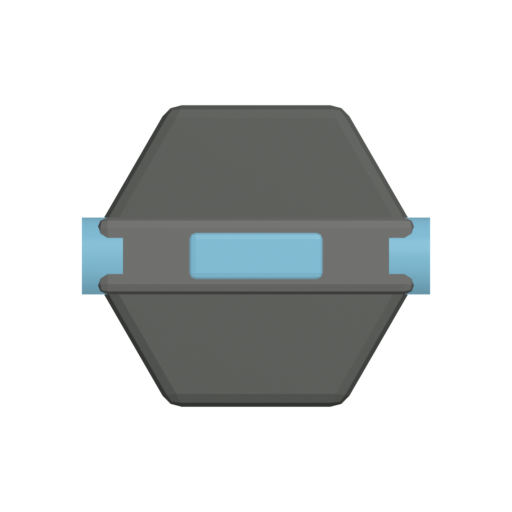
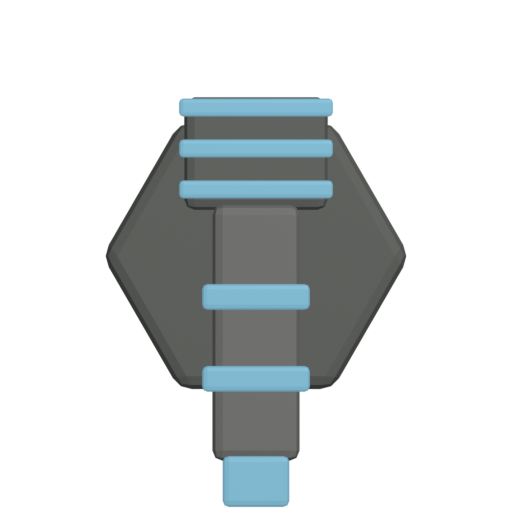
gorsel: pusu ve isin kulelerine gercek namlu
Ikisi de donen kule ama namlulari yoktu: pusu ortada bir mazgaldi,
isin X ekseninde yatay bir raydi. Donen kulenin neye nisan aldigi
ancak namludan okunur; ustelik isin hatti rayin ortasindan cikip
kendi govdesini yariyordu.

- pusu: dar alcak pad + kama + -Y'ye tasan namlu + agiz freni (uc -0,48)
- isin: sarj bobini + -Y'de uzun ray + iki mercek seridi + agiz (-0,49)
- TowerFx namlu ucu: pusu 0,28 -> 0,48, isin 0,30 -> 0,50

Gizlilik kurali (spec 9.1) bozulmadi, tasindi: pusunun gorunmezligi
artik siluetin ALCAKLIGINDAN geliyor, namlunun yoklugundan degil.

Elenen iki deneme yorumlara yazildi: ince silindir namlu 30 pikselde
kayboluyordu; isinin silindir sarj halkalari kulenin yarisini kaplayan
mavi bir leke oluyordu.

172 EditMode testi yesil.

Changed region(s): [[0.1562, 0.1875, 0.8438, 1.0]]

diff --git a/tools/blender/towers.py b/tools/blender/towers.py
@@ -9,15 +9,19 @@ Ordunun GOREBILDIGI kule ile GOREMEDIGI kule bakista ayrilmali.
   batarya      -> tehdit YAZAR. Tek "gurultulu" kule: yuksek, dik namlu,
                   agresif siluet. Titresim halkasi da yalnizca onda
                   (halkayi kod ciziyor, ThreatRingView).
-  pusu mevzisi -> tehdit YAZMAZ. Alcak, yassi, gomulu. Asil katil odur
-                  ama gorunmemeli - oyunun tersine cevrilmis sezgisi bu
-                  (spec 3.2).
+  pusu mevzisi -> tehdit YAZMAZ. Alcak ve yassi govde, ama ONE BAKAN
+                  ince bir namlu var (23 Agu kullanici karari): donen
+                  kulenin neye nisan aldigi ancak namludan okunur.
+                  Gizlilik YUKSEKLIKTE korunur - govde hala yerde.
   mayin tarlasi-> tehdit YAZMAZ. Yerde dagilmis kucuk tumsekler; dikey
                   yapi YOK.
   yem          -> hasar vermez, suruyu ceker. Yayin yapan bir fener:
                   ince govde + tepede parlak baslik.
-  isin         -> periyodik YATAY hat. Govde X ekseninde uzun; iki ucta
-                  mercek. Yonu mekanigini anlatir.
+  isin         -> periyodik delici hat. Yayici NISAN YONUNDE (-Y): uc
+                  uca iki mercek + one bakan agiz (23 Agu). Once X
+                  ekseninde yatay raydi; kule donunce nereye ates ettigi
+                  okunmuyordu ve hat rayin ortasindan cikip onu
+                  yariyordu.
 
 Yukseklik bu yuzden bir SUS degil, bilgi: yuksek kule gorunur, yassi
 kule gizli.
@@ -178,18 +182,41 @@ def build_battery():
 
 
 def build_ambush():
-    """SESSIZ. Alcak, yassi, gomulu. Asil katil ama gorunmemeli."""
+    """SESSIZ ama artik GERCEK NAMLULU. Alcak govde + one bakan top.
+
+    22 Agustos'ta mazgaldi: govdenin ortasinda dar bir yarik. Kullanici
+    begenmedi ve hakliydi - donen bir kulenin neye nisan aldigi ancak
+    NAMLUDAN okunur, mazgal her acidan ayni goruniyordu.
+
+    Gizlilik siluetin YUKSEKLIGINDE korunur, namlunun yoklugunda degil:
+    govde hala cok alcak ve dar, namlu ise yere yakin. Bataryanin yuksek
+    taretiyle yan yana konunca fark bakista okunur - kural (spec 9.1)
+    bozulmadi, tasindi.
+
+    Namlu, silueti tasiyacak kadar KALIN olmali: ilk denemede 0,042
+    yaricapli bir cubuktu ve 30 pikselde kayboluyordu. Govde de
+    kucultuldu, yoksa namlu plakanin icinde kalip disari cikmiyordu.
+    Ucu y = -0,48.
+    """
     clear()
     body = mat("T_Body", BODY)
+    metal = mat("T_Metal", METAL)
     acc = mat("T_Acc_amb", (0.45, 0.52, 0.58, 1.0), rough=0.7)
 
-    # genis ve COK alcak plaka: yukseklik yok = gorunurluk yok
-    ngon("Pad", 8, 0.44, 0.0, 0.05, body, 0.02)
-    # ortada dar bir yarik: namlu degil, mazgal
-    box("Slit", (0, 0, 0.06), (0.30, 0.07, 0.04), acc, 0.01)
-    # kamuflaj kenarlari
+    # dar ve COK alcak plaka: yukseklik yok = gorunurluk yok
+    ngon("Pad", 8, 0.32, 0.0, 0.05, body, 0.02)
+    # kama (breech): namlunun arkasi, siluete agirlik ve yon verir
+    box("Breech", (0.0, 0.05, 0.09), (0.26, 0.24, 0.08), body, 0.015)
+    box("Hatch", (0.0, 0.14, 0.14), (0.14, 0.10, 0.03), metal, 0.01)
+
+    # GERCEK NAMLU: -Y'ye bakar, plakanin disina TASAR. Bataryanin
+    # kalin topundan ince olmasi tur farkini tasir.
+    box("Barrel", (0.0, -0.20, 0.10), (0.10, 0.44, 0.09), metal, 0.015)
+    box("Muzzle", (0.0, -0.44, 0.10), (0.15, 0.09, 0.10), acc, 0.012)
+
+    # kamuflaj kenarlari: govde hala zemine yayilir, yukselmez
     for sx in (-1, 1):
-        box("Flap%d" % sx, (sx * 0.30, 0, 0.04), (0.16, 0.30, 0.03), body, 0.01)
+        box("Flap%d" % sx, (sx * 0.26, 0.06, 0.03), (0.16, 0.22, 0.03), body, 0.01)
 
 
 def build_decoy():
@@ -223,21 +250,41 @@ def build_minefield():
 
 
 def build_beam():
-    """YATAY hat. Govde X ekseninde uzun; iki ucta mercek."""
+    """ONE BAKAN YAYICI. Ray -Y'ye cevrildi; hat namlunun ucundan cikar.
+
+    Ilk surum X ekseninde yatay bir raydi ve "satir boyunca ates"
+    fikrini anlatiyordu. Ama kule DONUYOR: yatay ray dondugunde nereye
+    ates ettigini soylemiyor, ustelik hat govdenin ortasindan cikip rayi
+    yariyordu (23 Agu kullanici karari).
+
+    Ikinci deneme de elendi: arkadaki sarj halkalari silindirdi ve
+    tepeden bakinca kulenin yarisini kaplayan mavi bir leke oluyordu.
+    Vurgu rengi bu modelde INCE SERITLERE dagitilir - mavi, govdeyi
+    ezmeden nereye bakildigini soyleyecek kadar olmali.
+
+    Mekanigin siluetten okunmasi kaybolmadi, yer degistirdi: uzun ve
+    dar govde hala "bu bir hat silahi" der, artik NEREYE dogru oldugunu
+    da soyler. Agiz ucu y = -0,49.
+    """
     clear()
     body = mat("T_Body", BODY)
     metal = mat("T_Metal", METAL)
     acc = mat("T_Acc_beam", (0.30, 0.70, 0.92, 1.0), rough=0.3, emit=0.35)
 
-    ngon("Base", 6, 0.34, 0.0, 0.10, body, 0.025)
-    # uzun yatay govde: mekanigi (satir boyunca ates) siluet anlatir
-    # Ray ve mercekler kadraj icinde kalmali: disari tasinca sprite'in
-    # gorunur genisligi kareyi asiyor ve oyunda komsu hucreye giriyor.
-    box("Rail", (0, 0, 0.20), (0.62, 0.15, 0.13), metal, 0.02)
-    for sx in (-1, 1):
-        cyl("Lens%d" % sx, 0.075, 0.08, (sx * 0.30, 0, 0.20), acc,
-            rot=(0, 1.5708, 0))
-    box("Core", (0, 0, 0.28), (0.26, 0.09, 0.06), acc, 0.012)
+    ngon("Base", 6, 0.30, 0.0, 0.09, body, 0.025)
+
+    # sarj govdesi: agir arka, "birikip bosalma" hissi
+    box("Coil", (0.0, 0.20, 0.15), (0.28, 0.22, 0.13), body, 0.02)
+    for sy in (0.13, 0.21, 0.29):
+        box("Coil%.2f" % sy, (0.0, sy, 0.23), (0.30, 0.035, 0.03), acc, 0.008)
+
+    # ILERI bakan ray: -Y'de uzun, namlunun govdesi
+    box("Rail", (0.0, -0.15, 0.17), (0.17, 0.50, 0.12), metal, 0.02)
+    # hizalanmis mercek seritleri: hat bunlarin ekseninden cikar
+    for sy in (-0.08, -0.24):
+        box("Lens%.2f" % sy, (0.0, sy, 0.24), (0.21, 0.05, 0.04), acc, 0.01)
+    # agiz: en ondeki dudak, namlu ucunu isaret eder
+    box("Muzzle", (0.0, -0.44, 0.17), (0.13, 0.10, 0.13), acc, 0.012)
 
 
 def build_all():

diff --git a/Assets/Frontline/Runtime/Towers/TowerFx.cs b/Assets/Frontline/Runtime/Towers/TowerFx.cs
@@ -16,8 +16,10 @@ namespace Frontline.Runtime
     /// Namlu uzakligi olculdu: sprite'lar 1 dunya birimi genisliginde
     /// uretiliyor, yani asagidaki degerler dogrudan sprite koordinatidir.
     ///   batarya -> Muzzle kutusu y = -0,42
-    ///   pusu    -> Slit mazgali y = -0,15, kamuflaj kanadi -0,30
-    ///   isin    -> Rail ucu x = +-0,30 (ates ekseni boyunca)
+    ///   pusu    -> Muzzle kutusu y = -0,46 (23 Agu: mazgal gercek
+    ///              namluya cevrildi, ofis 0,28'den buyudu)
+    ///   isin    -> Muzzle agzi y = -0,48 (23 Agu: yatay ray one
+    ///              bakan yayiciya cevrildi)
     /// </summary>
     public struct TowerFx
     {
@@ -63,7 +65,7 @@ namespace Frontline.Runtime
             {
                 return new TowerFx
                 {
-                    muzzleOffset = 0.30f,
+                    muzzleOffset = 0.50f,
                     bulletScale = 0f,      // isinin mermisi YOK, hat cizilir
                     bulletSpeed = 0f,
                     muzzleScale = 0.45f,
@@ -75,7 +77,7 @@ namespace Frontline.Runtime
             // Pusu ve hasarsiz kuleler ayni sessiz bantta.
             return new TowerFx
             {
-                muzzleOffset = 0.28f,
+                muzzleOffset = 0.48f,
                 bulletScale = 0.22f,
                 bulletSpeed = 20f,
                 muzzleScale = 0.30f,
